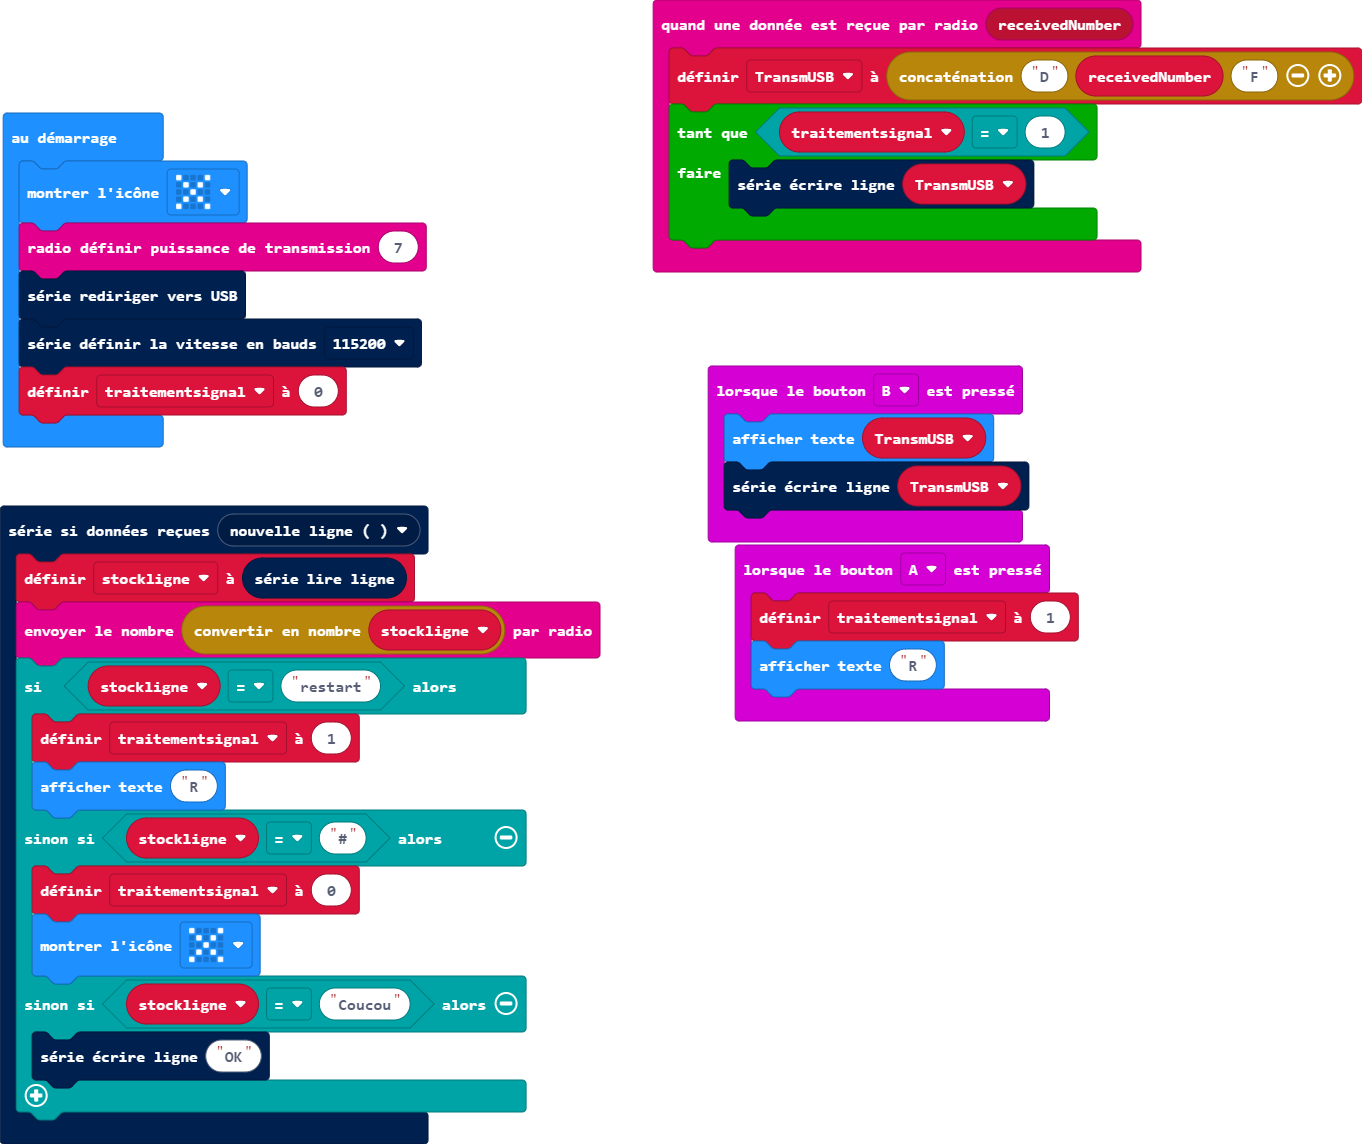
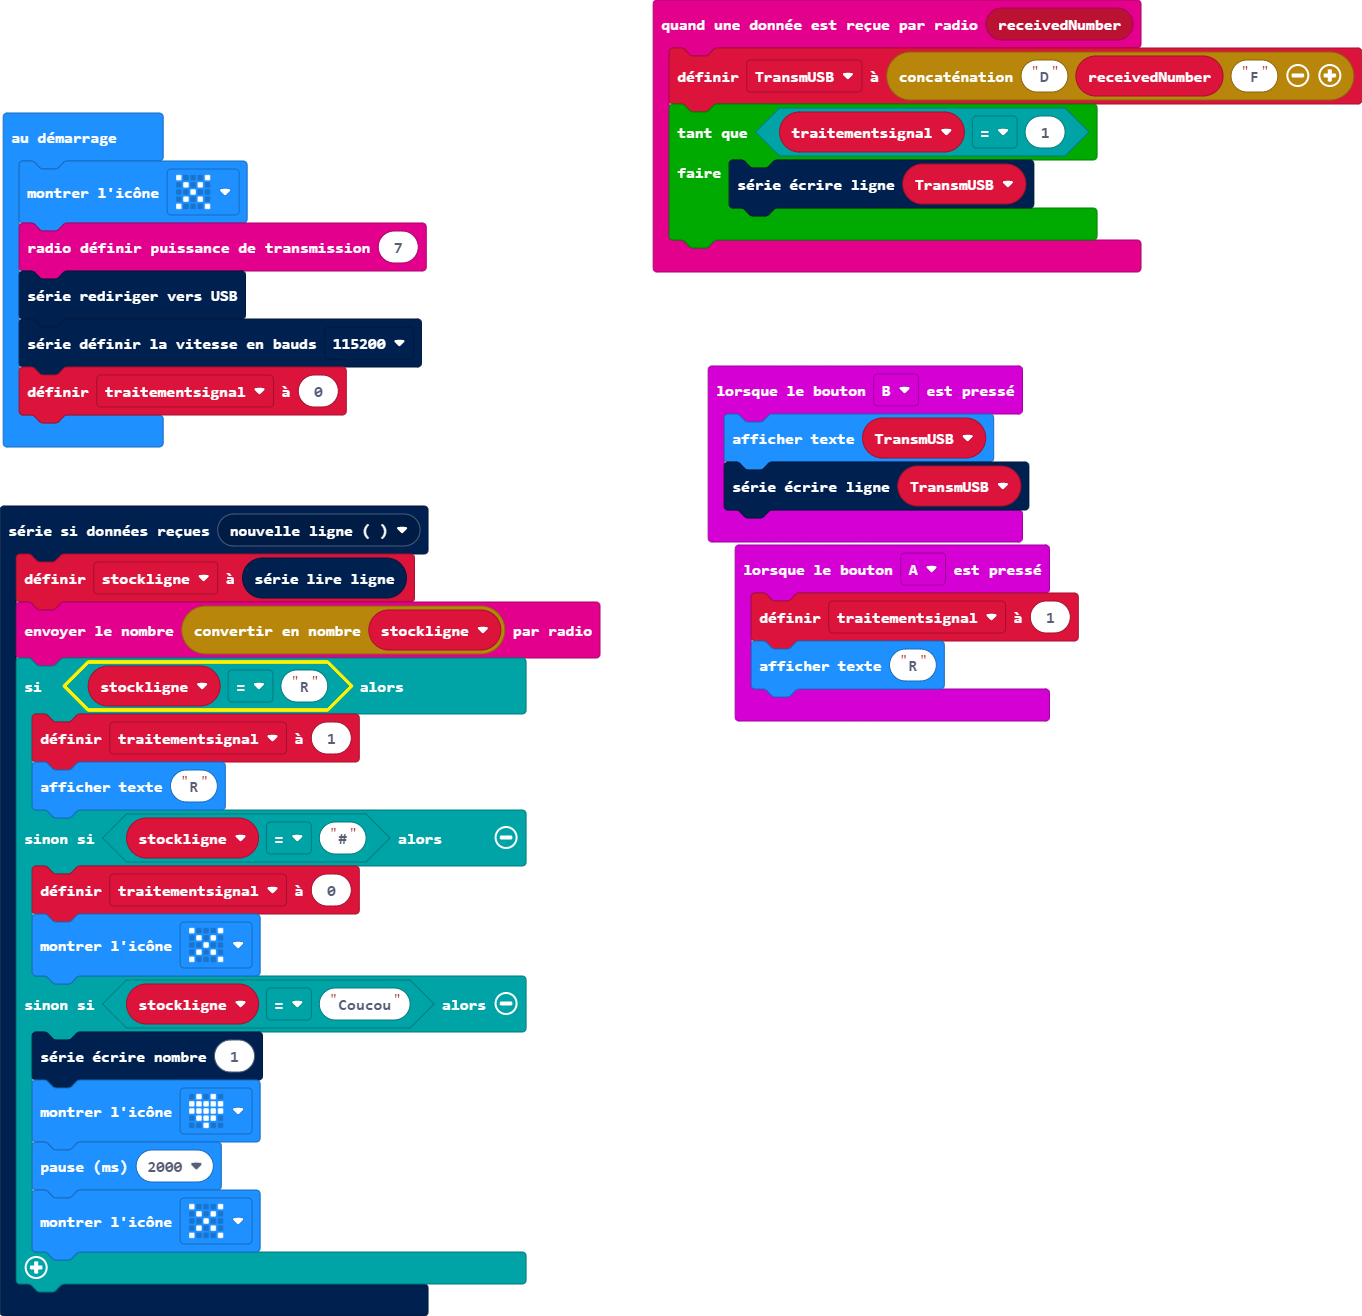
Mise à jour main.blocks, main.ts

diff --git a/main.ts b/main.ts
@@ -7,14 +7,17 @@ radio.onReceivedNumber(function (receivedNumber) {
 serial.onDataReceived(serial.delimiters(Delimiters.NewLine), function () {
     stockligne = serial.readLine()
     radio.sendNumber(parseFloat(stockligne))
-    if (stockligne == "restart") {
+    if (stockligne == "R") {
         traitementsignal = 1
         basic.showString("R")
     } else if (stockligne == "#") {
         traitementsignal = 0
         basic.showIcon(IconNames.No)
     } else if (stockligne == "Coucou") {
-        serial.writeLine("OK")
+        serial.writeNumber(1)
+        basic.showIcon(IconNames.Heart)
+        basic.pause(2000)
+        basic.showIcon(IconNames.No)
     }
 })
 input.onButtonPressed(Button.A, function () {
